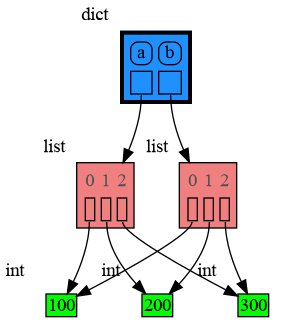
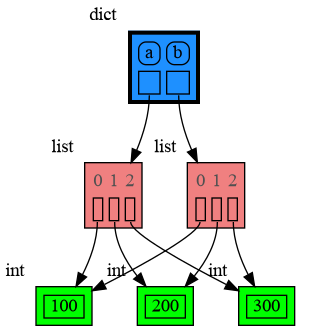
Introducing Node_Leaf to partly replace Node_Base

diff --git a/memory_graph/config_default.py b/memory_graph/config_default.py
@@ -3,7 +3,7 @@
 # SPDX-License-Identifier: BSD-2-Clause
 
 """ Sets the default configuration values for the memory graph. """
-from memory_graph.node_base      import Node_Base
+from memory_graph.node_leaf      import Node_Leaf
 from memory_graph.node_linear    import Node_Linear
 from memory_graph.node_key_value import Node_Key_Value
 from memory_graph.node_table     import Node_Table
@@ -37,14 +37,14 @@ config.not_node_types = {
 """ Types that will not have references pointing to their children in the graph but instead will have their children visualized in their node. """
 config.no_child_references_types = {dict, types.MappingProxyType}
 
-""" Conversion from type to Node_Base objects. """
+""" Conversion from type to Node objects. """
 config.type_to_node = {
-    str: lambda data: Node_Base(data), # visit as whole string, don't iterate over characters
+    str: lambda data: Node_Leaf(data, data), # visit as whole string, don't iterate over characters
     call_stack: lambda data: Node_Key_Value(data, data.items()),
-    types.FunctionType: lambda data: Node_Base(data.__qualname__),
-    types.MethodType: lambda data: Node_Base(data.__qualname__),
-    classmethod: lambda data: Node_Base(data.__qualname__),
-    staticmethod: lambda data: Node_Base(data.__qualname__),
+    types.FunctionType: lambda data: Node_Leaf(data, data.__qualname__),
+    types.MethodType: lambda data: Node_Leaf(data, data.__qualname__),
+    classmethod: lambda data: Node_Leaf(data, data.__qualname__),
+    staticmethod: lambda data: Node_Leaf(data, data.__qualname__),
     range: lambda data: Node_Key_Value(data, {'start':data.start, 'stop':data.stop, 'step':data.step}.items()),
     dict: lambda data: (
         Node_Key_Value(data, utils.filter_dict(data.items()) )
@@ -79,7 +79,7 @@ config.type_to_color = {
 }
 
 """ Types that will be visualized in vertical orientation if 'True', or horizontal orientation 
-if 'False'. Otherwise the Node_Base decides based on it having references."""
+if 'False'. Otherwise the Node decides based on it having references."""
 config.type_to_vertical_orientation = {
 }
 

diff --git a/memory_graph/node_base.py b/memory_graph/node_base.py
@@ -7,7 +7,9 @@ import memory_graph.config as config
 import memory_graph.config_helpers as config_helpers
 from memory_graph.sequence import Sequence1D
 
-class Node_Base:
+from abc import ABC, abstractmethod
+
+class Node_Base(ABC):
     """
     Node_Base represents a node in the memory graph. This base class has different subclasses for different types of nodes.
     """
@@ -99,10 +101,7 @@ class Node_Base:
         from memory_graph.html_table import HTML_Table
         import memory_graph.node_base
         html_table = HTML_Table()
-        if type(self) is memory_graph.node_base.Node_Base:
-            html_table.add_string(f'{self.data}')
-        elif not slices is None:
-            self.fill_html_table(nodes, html_table, slices, id_to_slices)
+        self.fill_html_table(nodes, html_table, slices, id_to_slices)
         return html_table
     
     def get_slicer(self):
@@ -123,6 +122,7 @@ class Node_Base:
 
     # -------------------- Node_Base interface, overriden by subclasses --------------------
 
+    @abstractmethod
     def fill_html_table(self, html_table, slices, id_to_slices):
         """
         Fill the HTML_Table object with each child of the node.

diff --git a/images/avltree.py b/images/avltree.py
@@ -19,8 +19,8 @@ mg.config.type_to_node[bintrees.avltree.Node] = lambda data: mg.node_linear.Node
 mg.config.type_to_slicer[bintrees.avltree.Node] = mg.slicer.Slicer()
 mg.render(locals(), 'avltree_dir.png')
 
-mg.config.type_to_node[bintrees.avltree.Node] = lambda data: mg.node_base.Node_Base(f"key:{data.key} value:{data.value}")
-mg.render(locals(), 'avltree_base.png')
+mg.config.type_to_node[bintrees.avltree.Node] = lambda data: mg.node_leaf.Node_Leaf(data, f"key:{data.key} value:{data.value}")
+mg.render(locals(), 'avltree_leaf.png')
 
 mg.config.type_to_node[bintrees.avltree.Node] = lambda data: mg.node_linear.Node_Linear(data,
                                                                                         ['left:', data.left,

diff --git a/memory_graph/node_leaf.py b/memory_graph/node_leaf.py
@@ -1,0 +1,23 @@
+# This file is part of memory_graph.
+# Copyright (c) 2023, Bas Terwijn.
+# SPDX-License-Identifier: BSD-2-Clause
+
+from memory_graph.node_base import Node_Base
+
+class Node_Leaf(Node_Base):
+    """
+    Node_Leaf (subclass of Node_Base) is a leaf node with no children but a value.
+    """
+
+    def __init__(self, data, value):
+        """
+        Create a Node_Leaf object.
+        """
+        super().__init__(data)
+        self.value = value
+
+    def fill_html_table(self, nodes, html_table, slices, id_to_slices):
+        """
+        Fill the html_table with the children of the Node_Base.
+        """
+        html_table.add_value(self.value)

diff --git a/memory_graph/memory_to_nodes.py b/memory_graph/memory_to_nodes.py
@@ -2,7 +2,7 @@
 # Copyright (c) 2023, Bas Terwijn.
 # SPDX-License-Identifier: BSD-2-Clause
 
-from memory_graph.node_base import Node_Base
+from memory_graph.node_leaf import Node_Leaf
 from memory_graph.node_linear import Node_Linear
 from memory_graph.node_key_value import Node_Key_Value
 
@@ -21,7 +21,7 @@ def read_nodes(data):
         elif utils.is_finite_iterable(data): # for lists, tuples, sets, ...
             return Node_Linear(data, data)
         else:
-            return Node_Base(data)
+            return Node_Leaf(data, data)
 
     def memory_to_nodes_recursive(nodes, data, parent, parent_index):
         data_type = type(data)

diff --git a/memory_graph/node_key_value.py b/memory_graph/node_key_value.py
@@ -54,6 +54,8 @@ class Node_Key_Value(Node_Base):
         """
         Fill the html_table with the children of the Node_Base.
         """
+        if slices is None:
+            return
         vertical = self.is_vertical(nodes, slices, id_to_slices)
         if vertical:
             self.fill_html_table_vertical(html_table, nodes, slices, id_to_slices)

diff --git a/memory_graph/node_linear.py b/memory_graph/node_linear.py
@@ -45,6 +45,8 @@ class Node_Linear(Node_Base):
         """
         Fill the html_table with the children of the Node_Base.
         """
+        if slices is None:
+            return
         if self.is_vertical(nodes, slices, id_to_slices):
             self.fill_html_table_vertical(html_table, nodes, slices, id_to_slices)
         else:

diff --git a/memory_graph/node_table.py b/memory_graph/node_table.py
@@ -35,7 +35,7 @@ class Node_Table(Node_Base):
         """
         Fill the html_table with the children of the Node_Base.
         """
-        if slices.is_empty():
+        if slices is None or slices.is_empty():
             return
         children = self.children
         children_size = children.size()

diff --git a/README.md b/README.md
@@ -645,8 +645,8 @@ mg.show(locals())
 
 Next figure out what are the attributes you want to graph and choose a Node type, there are four options:
 
-### 1) Node_Base ###
-Node_base is a leaf node (with no children) and shows just a single value.
+### 1) Node_Leaf ###
+Node_Leaf is a leaf node (with no children) and shows just a single value.
 ```python
 import memory_graph as mg
 import bintrees
@@ -659,11 +659,12 @@ tree.insert(20, "twenty")
 tree.insert(15, "fifteen")
 
 mg.config.type_to_color[bintrees.avltree.Node] = "sandybrown"
-mg.config.type_to_node[bintrees.avltree.Node] = lambda data: mg.node_base.Node_Base(f"key:{data.key} value:{data.value}")
+mg.config.type_to_node[bintrees.avltree.Node] = lambda data: mg.node_leaf.Node_Leaf(data, 
+                                                f"key:{data.key} value:{data.value}")
 
 mg.show(locals())
 ```
-![extension_numpy.png](https://raw.githubusercontent.com/bterwijn/memory_graph/main/images/avltree_base.png)
+![extension_numpy.png](https://raw.githubusercontent.com/bterwijn/memory_graph/main/images/avltree_leaf.png)
 
 ### 2) Node_Linear ###
 Node_Linear shows all the values in a line like a list.
